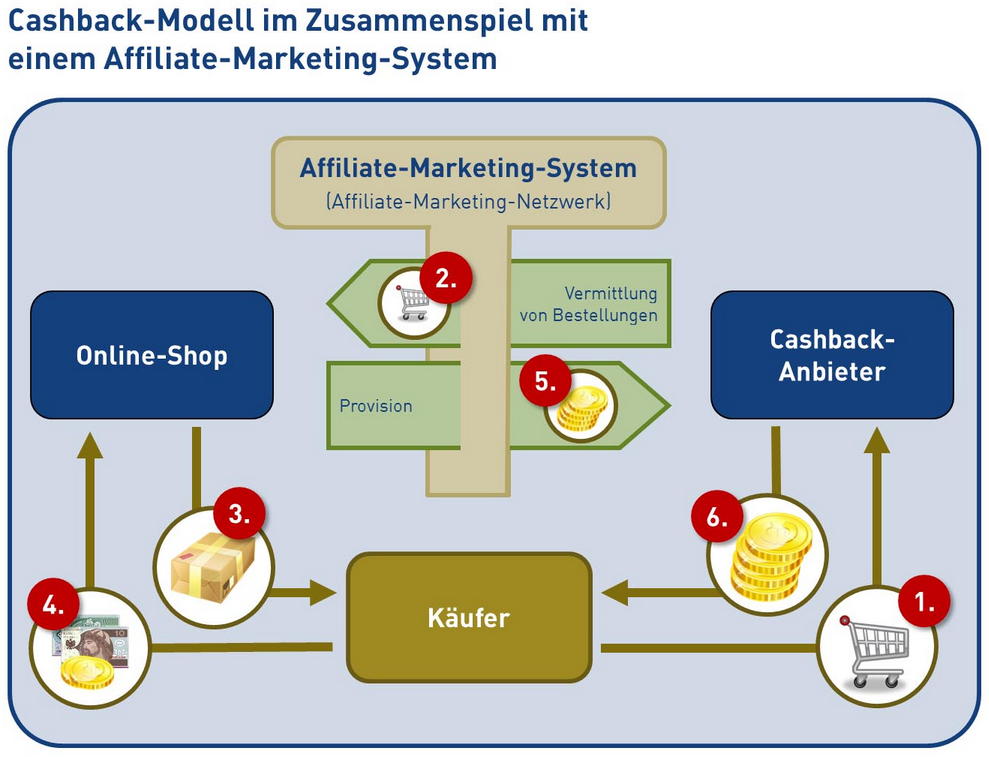
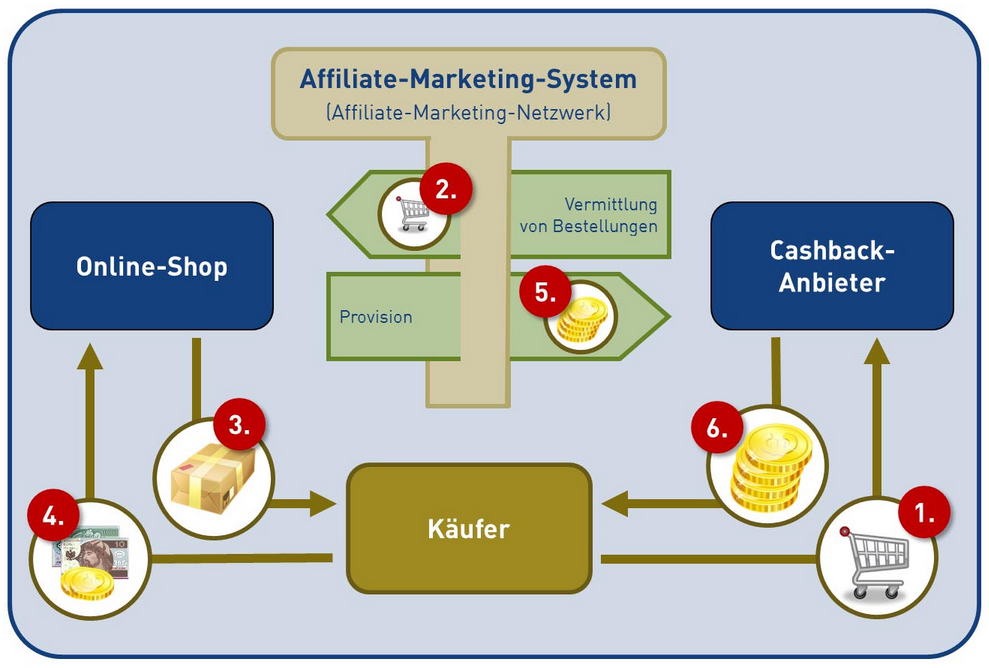
fixed spelling mistakes, cutted cashback picture, fixed bib, added bitsaboutme dataset settings

diff --git a/Kapitel_Fallanalyse/BitsAboutMe.tex b/Kapitel_Fallanalyse/BitsAboutMe.tex
@@ -5,9 +5,11 @@ BitsAboutMe ist ein in der Schweiz ansässiges Unternehmen, welches eine Plattfo
 Als Ziel setzt sich das Unternehmen, den Nutzern mehr Kontrolle über die eigenen Daten zu geben. Damit soll ein fairer Datenhandel zwischen Datenkonsumenten und Datenanbietern geschaffen werden, sowie eine aktive Teilnahme an der Monetariserung dieser. Außerdem lädt das Unternehmen noch weitere Unternehmen dazu ein, an diesem Netzwerk teilzunehmen und bietet unterschiedliche Analyse- und Auswertungsmöglichkeiten, sowie eine Schnittstelle zu den Datenanbietern an. Damit soll das Wachstum des Netzwerkes und die Nutzungsmotivation gesteigert werden, um einen positiven \gls{netzwerkeffektG} der Plattform zu erreichen.
 
 \subsection{Rollen bei BitsAboutMe}
-\textbf{Nutzer:} Nutzer können auf der Plattform, ähnlich wie im Abschnitt \ref{invisibly} bei Invisibly, ihre Daten von diversen Konten, wie Instagram, Facebook, Spotify, Amazon aber auch E-Mail- und Bankkonten hinzufügen. Neben dem Verkauf von persönlichen Daten soll ein Überblick über die Daten des Nutzers an einem zentralen Ort verschafft werden. Der Nutzer kann durch den Import verschiedener Datenquellen herausfinden, wie das eigene Nutzungsverhalten in sozialen Netzwerken ist, wie groß der eigene CO\textsubscript{2}-Fußabdruck ist oder ob man einen gesunden Lifestyle führt. Um damit nur einige Möglichkeiten zu nennen, hat der Nutzer also damit die Möglichkeit, die Daten der jeweiligen Datenquellen einzusehen, aggregiert darzustellen und sich auswerten zu lassen. \newline
+\textbf{Nutzer:} Nutzer können auf der Plattform, ähnlich wie im Abschnitt \ref{invisibly} bei Invisibly, ihre Daten von diversen Konten, wie Instagram, Facebook, Spotify, Amazon aber auch E-Mail- und Bankkonten hinzufügen, wobei der Nutzer zusätzlich einen Steckbrief über sich selbst ausfüllen kann. Neben dem Verkauf von persönlichen Daten soll ein Überblick über die Daten des Nutzers an einem zentralen Ort verschafft werden. Der Nutzer kann durch den Import verschiedener Datenquellen herausfinden, wie das eigene Nutzungsverhalten in sozialen Netzwerken ist, wie groß der eigene CO\textsubscript{2}-Fußabdruck ist oder ob man einen gesunden Lifestyle führt. Um damit nur einige Möglichkeiten zu nennen, hat der Nutzer also damit die Möglichkeit, die Daten der jeweiligen Datenquellen einzusehen, aggregiert darzustellen und sich auswerten zu lassen. \newline
 
 \noindent Der Nutzer fungiert demzufolge wiederum als Datenanbieter beziehungsweise Datenquelle, wobei jedoch die Privatsphäre im Vordergrund steht. BitsAboutMe garantiert durch eine Verschlüsselung der Datenbank auf Nutzerebene und einem Rechenzentrum in der EU oder in der Schweiz für eine hohe Sicherheit und ausschließliche Einsicht der Daten durch den Nutzer selbst. Dieser kann mithilfe der \gls{PWA} stets selbst entscheiden, welche Daten konkret freigegeben werden und welche nicht.\newline
+
+\noindent Genauer betrachtet, hat der Nutzer die Möglichkeit, einzelne Datensätze der verlinkten Datenquelle auf \textit{Geheim} oder \textit{Privat} zu stellen oder sogar zu löschen. Die Einstellung \textit{Privat} ist dabei die Standardeinstellung und bedeutet, dass die Daten in die Analysen einbezogen werden und auf dem Marktplatz angeboten werden können. Die Einstellung \textit{Geheim} dagegen verhindert die Veröffentlichung der Daten auf dem Marktplatz, sowie das Einbeziehen in die Analysen. Wird ein Datensatz gelöscht, so wird er auf gänzlich aus der verlinkten Datenquelle entfernt.
 
 \begin{figure}[!ht]
 	\centering

diff --git a/Kapitel_Fallanalyse/Datum.tex b/Kapitel_Fallanalyse/Datum.tex
@@ -11,7 +11,7 @@ Datum zielt mit dem Projekt darauf ab, die im Kapitel \ref{Motivation} Motivatio
 	\item Die Daten sind monetarisiert werden
 	\item Die Daten werden dezentralisiert gespeichert
 	\item Die Daten werden anonymisiert
-	\item Der Nutzer besitzt die Kontrolle daüber, welche Daten genutzt werden, wie lange die Daten genutzt werden und wie die zukünftige Verwendung der Daten erfolgt 
+	\item Der Nutzer besitzt die Kontrolle darüber, welche Daten genutzt werden, wie lange die Daten genutzt werden und wie die zukünftige Verwendung der Daten erfolgt 
 \end{enumerate}
 
 \noindent Aus Käufersicht möchte das Unternehmen eine gute Datenqualität garantieren, indem die Daten der Nutzer validiert werden, um somit verlässliche und aussagekräftige Daten für Prognosen oder andere Verwendungszwecke zu liefern. Dafür soll sich auf das Datum-Netzwerk verlassen werden und im Zusammenhang damit ein \textit{Trust-Ranking-System} implementieren. Für die Validierung schlägt das Unternehmen weitere Validierungsdienste wie \textit{Civic} oder \textit{uPort} vor.
@@ -42,12 +42,12 @@ Datum zielt mit dem Projekt darauf ab, die im Kapitel \ref{Motivation} Motivatio
 	\item Das \textit{Datum-Network-Trust-Rating}
 \end{enumerate}
 
-\noindent \textbf{DAT-Token-Holder:} DAT-Token-Holder steuern das Netzwerk und ermöglichen Trankaktionen in dem Netzwerk. \newline
+\noindent \textbf{DAT-Token-Holder:} DAT-Token-Holder steuern das Netzwerk und ermöglichen Trankaktionen in dem Netzwerk. Die DAT-Token selbst dienen als Währung, um Daten kaufen, verkaufen oder überhaupt speichern und anbieten zu können. Der Wert eines DAT-Token liegt aktuell bei 0,000070€. (Stand: 20.01.2022 \cite{DAT_Token_price}) \newline
 
 \noindent \textit{Hinweis: Auf weitere Rollen, wie beispielsweise Storage Nodes wird im Folgenden nicht eingegangen, da sich diese vorwiegend mit der technischen Komponente einer Blockchain befassen und im Sinne der Datenökonomie weniger relevant sind.}
 
 \subsection{Daten im Datum-Netzwerk monetarisieren}
-Nun stellt sich wiederum die Frage, wie die Nutzer ihr Geld aktiv verkaufen und somit zu Geld machen können. Dafür sieht das Netzwerk folgendes Protokoll vor:\newline
+Nun stellt sich wiederum die Frage, wie die Nutzer ihre Daten aktiv verkaufen und somit zu Geld machen können. Dafür sieht das Netzwerk folgendes Protokoll vor:\newline
 
 \noindent Zuerst muss der Nutzer seine Daten mit der Client-Software (Android- oder iOS-App) dem Netzwerk preisgeben. Diese werden jedoch davor verschlüsselt, wodurch nur der Nutzer selbst Zugriff auf die Daten hat. Die verschlüsselten Daten werden daraufhin an mehrere \textit{Storage Nodes} gesendet und sind damit repliziert. Nun kann ein Datenkonsument sein Interesse für die veröffentlichten Daten eines Nutzers äußern. Daraufhin erhält der Nutzer, also der Datenanbieter, eine Kaufanfrage für die übermittelten Konditionen des Datenkonsumenten. Ist er damit einverstanden, kann der Datenanbieter das Angebot annehmen. Ebenso kann dieser auch ein Gegenangebot an den Datenkonsumenten schicken. Kommt ein Geschäft zustande, so sendet der Datenkonsumenten DAT-Token als Währung an den Nutzer, welcher im Gegenzug den Schlüssel zur Entschlüsselung seiner Daten oder einem Teil seiner Daten veräußert.
 Das Geschäft kann dabei als Einmalkauf abgewickelt werden oder in Form eines Abonnements. \cite{datum_2017} \newline
